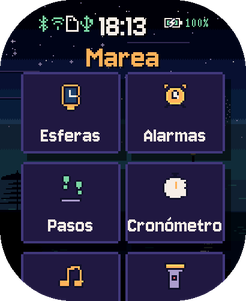
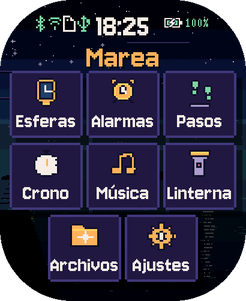
Reloj: lanzador en tres columnas, cambio de esfera con gesto decidido y su nombre, asas de ayuda las primeras veces; días de alarma más legibles

diff --git a/src/sys.c b/src/sys.c
@@ -144,41 +144,56 @@ bool ui_scroll_event(ui_scroll_t *s, const ui_event_t *e)
 
 // ---------------------------------------------------------------- launcher
 
-#define L_TOP 120
-#define L_ROW 150
-#define L_TILE_W 166
-#define L_TILE_H 136
+// Three columns, three rows: the eight apps fit without scrolling (the last row has two, centred,
+// away from the rounded corners)
+#define L_TOP 118
+#define L_ROW 120
+#define L_TILE_W 122
+#define L_TILE_H 112
+#define L_COLS 3
 static int s_pressed = -1;
+// Shorter names where the full one does not fit a tile
+static const char *const L_SHORT_ES[] = {NULL, NULL, NULL, "Crono", NULL, NULL, NULL, NULL};
+static const char *const L_SHORT_EN[] = {NULL, NULL, NULL, "Timer", NULL, "Torch", NULL, NULL};
+
+static void launcher_tile(int i, int *x, int *y)
+{
+    int row = i / L_COLS, col = i % L_COLS;
+    int in_row = NAPPS - row * L_COLS < L_COLS ? NAPPS - row * L_COLS : L_COLS;
+    int span = in_row * L_TILE_W + (in_row - 1) * 6;
+    *x = (UI_W - span) / 2 + col * (L_TILE_W + 6);
+    *y = L_TOP + row * L_ROW - s_launch_scroll.offset;
+}
 
 static int launcher_hit(int x, int y)
 {
-    int yy = y - L_TOP + s_launch_scroll.offset;
-    if (y < L_TOP - 10 || yy < 0) return -1;
-    int row = yy / L_ROW, col = x < UI_W / 2 ? 0 : 1, i = row * 2 + col;
-    int tx = col ? UI_W / 2 + 4 : UI_W / 2 - 4 - L_TILE_W;
-    if (x < tx || x >= tx + L_TILE_W || yy % L_ROW >= L_TILE_H) return -1;
-    return i < NAPPS ? i : -1;
+    for (int i = 0; i < NAPPS; i++) {
+        int tx, ty;
+        launcher_tile(i, &tx, &ty);
+        if (x >= tx && x < tx + L_TILE_W && y >= ty && y < ty + L_TILE_H) return i;
+    }
+    return -1;
 }
 
 static bool launcher_draw(void)
 {
-    s_launch_scroll.view_h = UI_H - L_TOP - 30;
-    s_launch_scroll.content_h = ((NAPPS + 1) / 2) * L_ROW;
+    s_launch_scroll.view_h = UI_H - L_TOP - 20;
+    s_launch_scroll.content_h = ((NAPPS + L_COLS - 1) / L_COLS) * L_ROW;
     ui_background(false);
     ui_veil(60, UI_H, 3);
     for (int i = 0; i < NAPPS; i++) {
-        int row = i / 2, col = i % 2;
-        int x = col ? UI_W / 2 + 4 : UI_W / 2 - 4 - L_TILE_W;
-        int y = L_TOP + row * L_ROW - s_launch_scroll.offset;
+        int x, y;
+        launcher_tile(i, &x, &y);
         if (y + L_TILE_H < 60 || y > UI_H) continue;
         bool p = i == s_pressed;
         ui_panel(x, y, L_TILE_W, L_TILE_H, p ? MS_PANEL2 : MS_PANEL, p ? MS_ORO : MS_LINEA, 4, true);
-        ui_icon(s_apps[i]->icon, x + (L_TILE_W - 48) / 2, y + 18, 3);
-        const char *name = TR(s_apps[i]->name_es, s_apps[i]->name_en);
+        ui_icon(s_apps[i]->icon, x + (L_TILE_W - 48) / 2, y + 12, 3);
+        const char *sh = (g_app.lang ? L_SHORT_EN : L_SHORT_ES)[i];
+        const char *name = sh ? sh : TR(s_apps[i]->name_es, s_apps[i]->name_en);
         int sc = ui_fit(&ui_jersey, 2, 1, L_TILE_W - 6, name);
-        ui_print_c(&ui_jersey, sc, x + L_TILE_W / 2, y + 86 + (2 - sc) * 10, name, p ? MS_ORO2 : MS_CREMA, false);
+        ui_print_c(&ui_jersey, sc, x + L_TILE_W / 2, y + 64 + (2 - sc) * 10, name, p ? MS_ORO2 : MS_CREMA, false);
     }
-    // Clean band under the status bar, so tiles scroll away beneath it
+    // Clean band under the status bar
     ui_background_band(false, 0, L_TOP - 14);
     ui_shade(0, 0, UI_W, L_TOP - 14, 1);
     ui_status_bar();
@@ -409,10 +424,12 @@ static void face_event(const ui_event_t *e)
         if (s_to_face) break;
         if (e->dir == DIR_DOWN && (e->edge & EDGE_TOP)) trans_start(T_COVER_FROM_TOP), sys_open_quick();
         else if (e->dir == DIR_UP && (e->edge & EDGE_BOTTOM)) trans_start(T_COVER_FROM_BOTTOM), sys_open_launcher();
-        else if (e->dir == DIR_LEFT || e->dir == DIR_RIGHT) {
+        else if ((e->dir == DIR_LEFT || e->dir == DIR_RIGHT) && abs(e->x - e->x0) >= 100) {
+            // a deliberate stroke (a brush of the finger does not change the face), and its name shown
             g_app.fx = e->dir == DIR_LEFT ? fx_next(g_app.fx) : fx_prev(g_app.fx);
             g_app.auto_cycle = 0;
             g_app.dirty = true;
+            sys_toast(fx_list[g_app.fx].name);
         }
         break;
     case EV_LONG:
@@ -448,6 +465,7 @@ void sys_button_short(void)
         g_app.fx = fx_next(g_app.fx);
         g_app.auto_cycle = 0;
         g_app.dirty = true;
+        sys_toast(fx_list[g_app.fx].name);
         break;
     default: sys_back(); break;
     }
@@ -516,8 +534,10 @@ void sys_poll_requests(void)
                                                                                        : !strcmp(ed, "right") ? EDGE_RIGHT : 0;
         int x0 = edge == EDGE_LEFT ? 10 : edge == EDGE_RIGHT ? UI_W - 10 : UI_W / 2;
         int y0 = edge == EDGE_TOP ? 10 : edge == EDGE_BOTTOM ? UI_H - 10 : UI_H / 2;
+        int x1 = x0 + (dir == DIR_LEFT ? -150 : dir == DIR_RIGHT ? 150 : 0);  // a stroke as long as a real one
+        int y1 = y0 + (dir == DIR_UP ? -150 : dir == DIR_DOWN ? 150 : 0);
         synth(EV_DOWN, x0, y0, x0, y0, 0, edge);
-        synth(EV_SWIPE, x0, y0, x0, y0, dir, edge);
-        synth(EV_UP, x0, y0, x0, y0, 0, edge);
+        synth(EV_SWIPE, x1, y1, x0, y0, dir, edge);
+        synth(EV_UP, x1, y1, x0, y0, 0, edge);
     }
 }

diff --git a/src/main.c b/src/main.c
@@ -61,7 +61,7 @@
 #define LONG_PRESS_MS 800
 #define FORGET_HINT_MS 3000   // holding BOOT this long shows the "forget phones" hint...
 #define FORGET_MS 10000       // ...and this long forgets every paired phone
-#define TOAST_MS 1500
+#define TOAST_MS 2000
 #define SAVE_DELAY_MS 3000
 #define FADE_IN_MS 150
 #define FADE_OUT_MS 400
@@ -120,6 +120,19 @@ static void toast(const char *msg)
 {
     strlcpy(s_toast, msg, sizeof(s_toast));
     s_toast_t = now_ms();
+}
+void sys_toast(const char *msg) { toast(msg); }
+
+// The first times the face comes on: two little handles at the top and bottom edges, telling that the
+// screen can be pulled down (quick settings) and up (launcher). They stop after 8 times.
+static uint32_t s_hint_until;
+static void draw_hints(uint16_t *fb, uint32_t now)
+{
+    if ((int32_t)(s_hint_until - now) <= 0) return;
+    int w = g_lcd_w / 7, x = (g_lcd_w - w) / 2, h = g_lcd_h > 400 ? 6 : 4;
+    uint16_t c = (now / 400) % 2 ? rgb565(230, 222, 200) : rgb565(160, 150, 130);
+    gfx_fill_rect(fb, x, h + 2, w, h, c);
+    gfx_fill_rect(fb, x, g_lcd_h - 2 * h - 2, w, h, c);
 }
 
 // ---- Screen helpers ----
@@ -837,6 +850,10 @@ void app_main(void)
             }
             lcd_sleep(false);
             panel_asleep = false;
+            if (g_app.tips < 8 && sys_view() == VIEW_FACE) {  // the edge hints, the first few times
+                s_hint_until = now + 3000;
+                settings_set("tips", g_app.tips + 1);
+            }
             if (use_wifi) net_power(true);
             sys_dirty();
         }
@@ -880,6 +897,7 @@ void app_main(void)
         if (ru > render_max) render_max = ru;
         if (g_app.overlay) draw_overlay(fb, cur);
         draw_toast(fb, now);
+        draw_hints(fb, now);
         int ota = ota_progress();
         if (ota >= 0) draw_ota(fb, ota);
         int code = g_app.pairing_code;

diff --git a/src/app_alarms.c b/src/app_alarms.c
@@ -30,7 +30,7 @@ static void days_text(const alarm_t *a, int x, int y, int scale)
 {
     for (int d = 0; d < 7; d++) {
         bool on = a->days >> d & 1;
-        ui_print(&ui_vt, scale, x + d * 14 * scale, y, alarm_day_letter(d), on ? MS_ORO2 : MS_PILOTO_OFF);
+        ui_print(&ui_jersey, scale, x + d * 11 * scale, y, alarm_day_letter(d), on ? MS_ORO2 : MS_PILOTO_OFF);
     }
 }
 
@@ -63,12 +63,14 @@ static void draw_list(void)
         ui_panel(X0, y, WID, ROW - 12, MS_PANEL, a->on ? MS_ORO : MS_LINEA, 4, false);
         snprintf(buf, sizeof(buf), "%02d:%02d", a->h, a->m);
         ui_print(&ui_jersey, 4, X0 + 16, y - 8, buf, a->on ? MS_CREMA : MS_GRIS);  // capitals from y+12 to y+52
-        if (a->days) days_text(a, X0 + 18, y + 52, 1);
-        else ui_print(&ui_vt, 1, X0 + 18, y + 52, TR("sin repetir", "no repeat"), MS_GRIS);
-        if (a->label[0]) {  // the label from the phone, after the days
+        // the repeat (days or "no repeat") and the label, a line in Jersey under the time
+        int lx = X0 + 18;
+        if (a->days) days_text(a, lx, y + 46, 2), lx += 7 * 22 + 10;
+        else ui_print(&ui_jersey, 2, lx, y + 46, TR("sin repetir", "no repeat"), MS_GRIS), lx += ui_print_w(&ui_jersey, 2, TR("sin repetir", "no repeat")) + 12;
+        if (a->label[0] && X0 + WID - 96 - lx > 30) {  // the label from the phone, if there is room
             char l[ALARM_LABEL_MAX + 4];
-            ui_ellipsize(&ui_jersey, 2, WID - 230, a->label, l, sizeof(l));
-            ui_print(&ui_jersey, 2, X0 + 128, y + 50, l, a->on ? MS_ORO2 : MS_GRIS);
+            ui_ellipsize(&ui_jersey, 2, X0 + WID - 96 - lx, a->label, l, sizeof(l));
+            ui_print(&ui_jersey, 2, lx, y + 46, l, a->on ? MS_ORO2 : MS_GRIS);
         }
         ui_switch(X0 + WID - 84, y + 26, a->on);
     }

diff --git a/src/settings.c b/src/settings.c
@@ -51,6 +51,7 @@ static const setting_t SETTINGS[] = {
     {"raise", &g_app.raise_wake, 0, 1, true, NULL},  // raise the wrist to turn the screen on
     {"tap", &g_app.tap_wake, 0, 2, true, NULL},      // touch the dark screen: 0 nothing, 1 one tap, 2 double tap
     {"voice", &g_app.voice, 0, 1, true, NULL},
+    {"tips", &g_app.tips, 0, 99, true, NULL},     // edge hints shown so far (they stop at 8)
     {"cust", &g_app.cust, 0, 9999, true, NULL},     // the custom face shown by "Mis esferas"      // voice commands through the phone (hold BOOT)
     {"lang", &g_app.lang, 0, 1, true, NULL},          // 0 Spanish, 1 English
     {"dnd", &g_app.dnd, 0, 1, true, NULL},            // do not disturb

diff --git a/src/app.h b/src/app.h
@@ -22,6 +22,7 @@ typedef struct {
     volatile int classic_hue;  // "Clasico" face: dial colour, hue in degrees (0..359)
     volatile int onix_hue;     // "Onix" face: accent colour, hue in degrees (0..359)
     volatile int raise_wake;   // raising the wrist turns the screen on
+    volatile int tips;         // how many times the edge hints were shown on the face (they stop at 8)
     volatile int cust;         // the custom face "Mis esferas" shows (its folder /esferas/<n>), 0 = none
     volatile int voice;        // holding BOOT records a voice command for the phone app (voice.c)
     volatile int tap_wake;     // touching the dark screen turns it on: 0 never, 1 one tap, 2 a double tap

diff --git a/src/sys.h b/src/sys.h
@@ -26,6 +26,8 @@ bool sys_keep_awake(void);
 void sys_dirty(void);
 // The next frame of the current view must be drawn whole (a slide is going on, trans.c)
 void sys_force(void);
+// A short message at the bottom of the face (main.c), e.g. the name of the face just chosen
+void sys_toast(const char *msg);
 
 void sys_home(void);
 void sys_open_quick(void);

diff --git a/docs/wiki/Manual-del-reloj.md b/docs/wiki/Manual-del-reloj.md
@@ -20,7 +20,7 @@ Manual de uso de **Marea**: cómo se maneja el reloj y qué hace cada una de sus
 |---|---|---|
 | Deslizar desde el **borde de arriba** hacia abajo | Abre los **ajustes rápidos** | |
 | Deslizar desde el **borde de abajo** hacia arriba | Abre el **lanzador** | |
-| Deslizar a **izquierda o derecha** | Esfera siguiente o anterior | Cambiar de página (por ejemplo, en Pasos) |
+| Deslizar a **izquierda o derecha** | Esfera siguiente o anterior (un deslizamiento decidido: un roce no la cambia); abajo sale su nombre un momento | Cambiar de página (por ejemplo, en Pasos) |
 | **Mantener** el dedo | Abre el selector de **Esferas** | Acciones extra (borrar en Archivos, saltos rápidos en Alarmas) |
 | Deslizar desde el **borde izquierdo** hacia la derecha | | **Volver** un paso (ver abajo) |
 | Arrastrar arriba o abajo | | Desplazar listas largas |
@@ -29,6 +29,7 @@ Manual de uso de **Marea**: cómo se maneja el reloj y qué hace cada una de sus
 - **Volver** (este gesto o BOOT) va de un paso en un paso: primero cierra el diálogo o la pantalla interna en la que estés (el editor de una alarma, una carpeta, el mes en Pasos) y, desde la primera pantalla de la app, sale a donde la abriste: el lanzador, los ajustes rápidos (la Linterna) o la esfera (Esferas, si la abriste manteniendo el dedo).
 - Las pantallas se deslizan en la dirección del gesto: los ajustes rápidos bajan desde arriba, el lanzador sube desde abajo y las apps entran por la derecha (y salen por ella al volver). Las alertas, como una llamada, aparecen al momento.
 - Cada panel se cierra con el gesto contrario al que lo abrió: los ajustes rápidos, deslizando hacia arriba; el lanzador, deslizando hacia abajo (estando arriba del todo). Volver también los cierra.
+- Las primeras veces que se enciende la pantalla, dos asas parpadean arriba y abajo de la esfera: recuerdan que desde ahí se abren los ajustes rápidos y el lanzador.
 - Los gestos de borde empiezan en la parte recta del borde, no en la esquina redondeada.
 - En las **esferas interactivas** (Plasma, Cubo 3D, Túnel, Lava y Vida) el dedo mueve la esfera; deslizar desde un borde sigue abriendo los menús.
 
@@ -37,7 +38,7 @@ Manual de uso de **Marea**: cómo se maneja el reloj y qué hace cada una de sus
 | Cuándo | Gesto | Qué hace |
 |---|---|---|
 | Pantalla apagada | Pulsación | Enciende la pantalla, sin hacer nada más |
-| En la esfera | Pulsación corta | Siguiente esfera |
+| En la esfera | Pulsación corta | Siguiente esfera (sale su nombre un momento) |
 | En una app o un menú | Pulsación corta | Volver un paso |
 | En la esfera | Pulsación larga (más de 0,8 s) | Activa o desactiva el **cambio automático** de esfera (cada 30 s); se ve «AUTO: SÍ / NO». Con las órdenes de voz activas, mantenerlo graba una orden (ver [Órdenes de voz](#órdenes-de-voz)) |
 | Suena una alarma | Pulsación | La para |
@@ -155,7 +156,7 @@ Para cerrarlos: desliza hacia arriba, BOOT o desliza desde el borde izquierdo.
 
 ## El lanzador
 
-Es el **menú principal**. Para abrirlo, desliza desde el borde de abajo hacia arriba estando en la esfera. Muestra las apps en dos columnas; arrastra para ver las de abajo y toca una para abrirla. Para volver a la esfera: BOOT o deslizar desde el borde izquierdo.
+Es el **menú principal**. Para abrirlo, desliza desde el borde de abajo hacia arriba estando en la esfera. Muestra todas las apps de un vistazo, en tres columnas; toca una para abrirla. Para volver a la esfera: BOOT o deslizar desde el borde izquierdo.
 
 <img src="https://raw.githubusercontent.com/wiki/CarlosNS/c6-fx-clock/images/sys-launcher.png" alt="Lanzador" width="200">
 

diff --git a/CHANGELOG.md b/CHANGELOG.md
@@ -8,6 +8,9 @@
 - **Mis esferas:** en la app (*Esferas → Mis esferas*) se crean, cambian y borran esferas propias: un nombre, una foto o un GIF de la galería encuadrado a la pantalla, y la hora digital con fuente, tamaño, sitio, color, contorno o sombra, segundos y fecha, con vista previa exacta y *Probar en el reloj*. Se guardan en la microSD del reloj (hace falta una; la app avisa si no la hay) y el móvil guarda una copia para restaurarlas. Los GIF se repiten mientras la pantalla está encendida (hasta 40 fotogramas, 274×336). El reloj recibe archivos por Bluetooth a su tarjeta.
 - **Editor de alarmas más seguro:** *Cancelar* y *Guardar*; *Borrar alarma* va aparte y pregunta antes. En Archivos, *Formatear* pasa a *Más…*.
 - Arreglado: textos que se pisaban en Alarmas, Pasos, Cronómetro, Archivos y el lanzador.
+- **Lanzador en tres columnas:** todas las apps caben sin desplazar.
+- **Cambiar de esfera con intención:** deslizar a los lados pide un gesto decidido y la esfera nueva enseña su nombre un momento; las primeras veces, unas asas recuerdan que se puede deslizar desde arriba y desde abajo.
+- En la lista de alarmas, los días y «sin repetir» se leen más grandes.
 - **Transiciones:** las pantallas del reloj se deslizan en la dirección del gesto (ajustes rápidos desde arriba, lanzador desde abajo, apps desde la derecha).
 - **Ajustes rápidos rediseñados:** cada casilla con icono, nombre y estado; las activas, rellenas de dorado; tirador en la barra de brillo. *Siempre* pasa a *Pantalla*, *Buscar móvil* a *Buscar* y *Reconectar* a *Conectar*, todas a un mismo tamaño.
 - **Volver paso a paso:** BOOT y el gesto desde el borde izquierdo cierran primero el diálogo o la pantalla interna (editor, carpeta, mes de Pasos) y luego salen a donde se abrió la app: el lanzador, los ajustes rápidos o la esfera. Los paneles se cierran con el gesto contrario al que los abrió.
